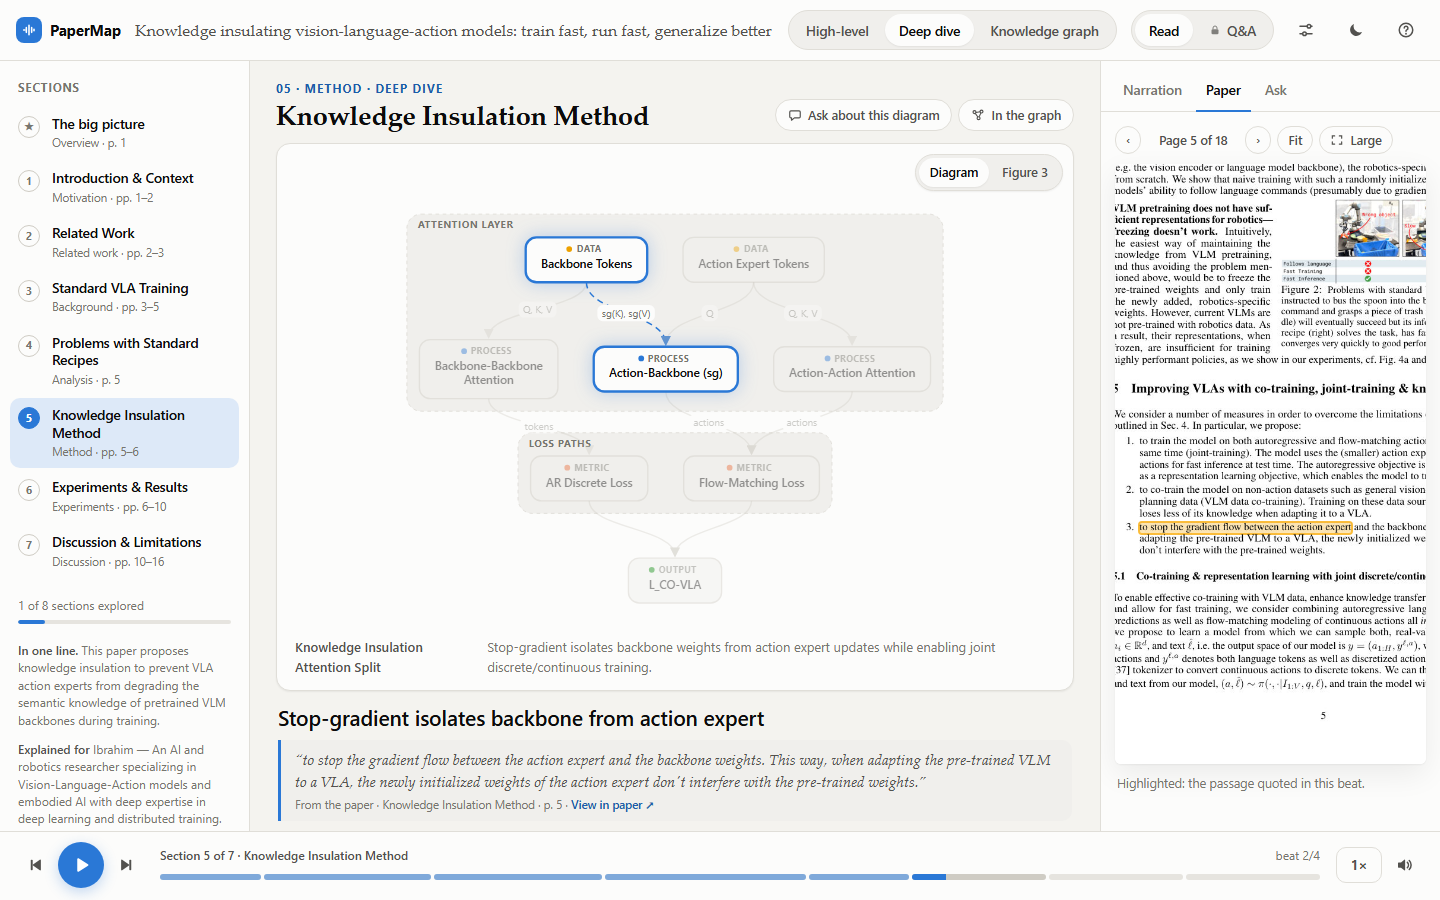
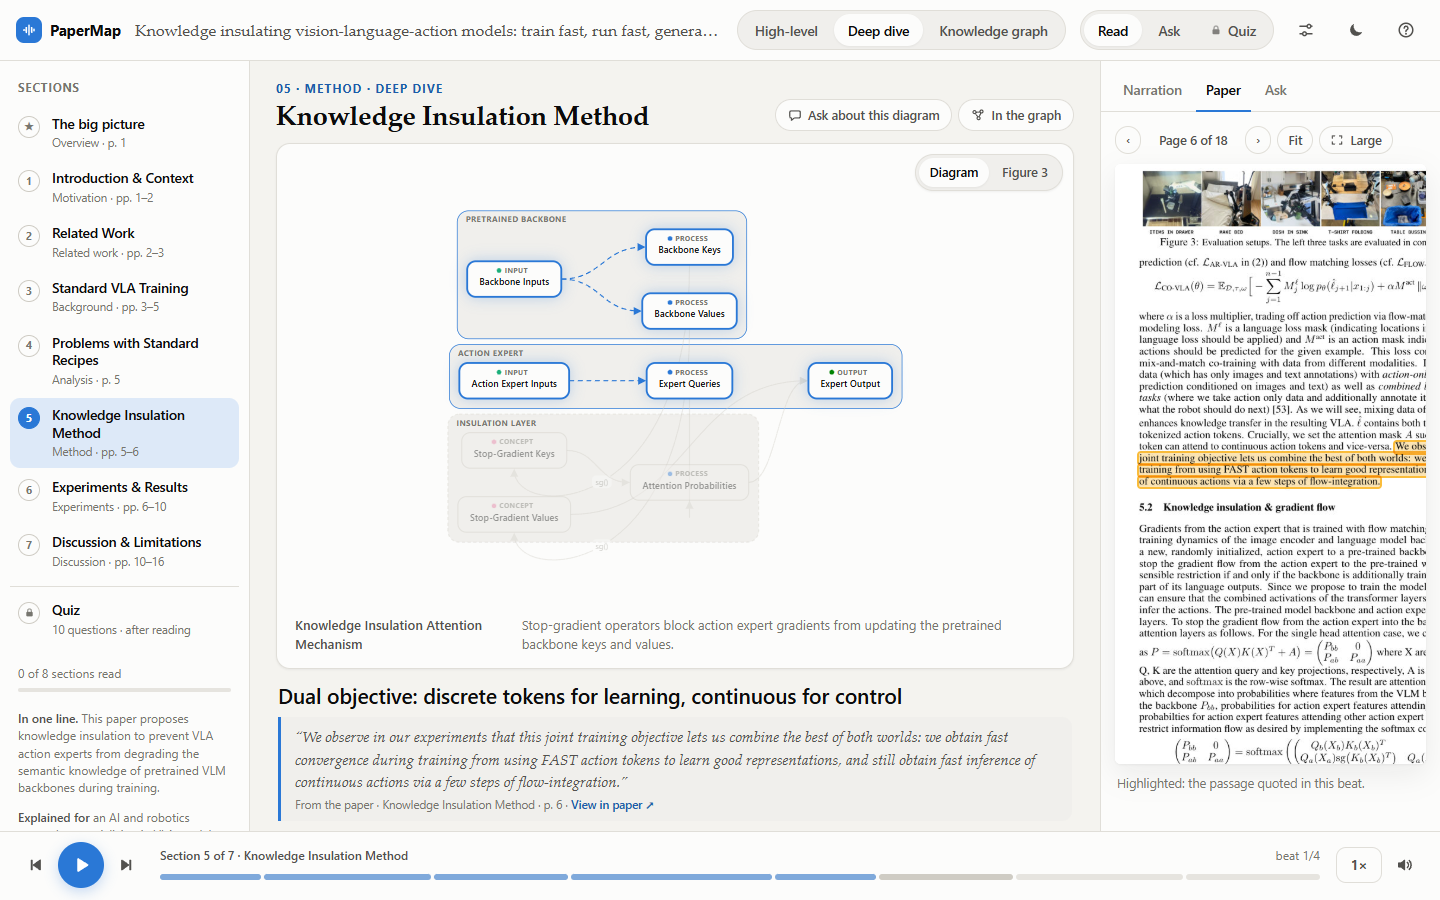
Article: anonymized screenshots, the quiz and the ten-stage pipeline
The deep-dive and graph screenshots showed the reader's name and the old
Read | Q&A toggle; they are retaken from an anonymized copy with the
current UI. The pipeline figure gains the quiz stage, a short paragraph
and screenshot describe the quiz, and the how-to reflects that Ask is
open at any time while the quiz unlocks after reading.

diff --git a/docs/articles/understanding-papers-with-papermap.md b/docs/articles/understanding-papers-with-papermap.md
@@ -12,14 +12,14 @@ PaperMap gives you the walkthrough a colleague who already read the paper would 
 
 ## What it does
 
-You give it a paper (a PDF or an arXiv link) and a short `profile.md` describing the reader. It builds one self-contained web page with three synchronized views: a high-level walkthrough, a deep dive and a knowledge graph. A Paper tab shows the PDF page behind each sentence with the quoted passage highlighted, and `papermap serve` adds Q&A grounded in the paper. It runs with local models (Ollama, vLLM, llama.cpp, LM Studio) or with cloud APIs.
+You give it a paper (a PDF or an arXiv link) and a short `profile.md` describing the reader. It builds one self-contained web page with three synchronized views: a high-level walkthrough, a deep dive and a knowledge graph. A Paper tab shows the PDF page behind each sentence with the quoted passage highlighted. `papermap serve` answers questions from the paper at any time, and a quiz at the end checks what you understood. It runs with local models (Ollama, vLLM, llama.cpp, LM Studio) or with cloud APIs.
 
-![The PaperMap pipeline: parse, understand, profile, explain, review, diagrams, graph, narrate, render](../images/pipeline.png)
+![The PaperMap pipeline: parse, understand, profile, explain, review, diagrams, graph, quiz, narrate, render](../images/pipeline.png)
 
 Two design choices make it a tool for understanding a paper rather than summarizing it:
 
 - **The profile drives the writing.** Concepts the reader already knows are not re-explained, missing ones get a short definition, and analogies come from fields the reader knows.
-- **Grounding runs in code, not in the prompt.** Quotes must appear verbatim in the paper or they are dropped. Numbers in the narration and in charts must appear in the section text, next to the label they are attributed to. Graph entities must be named in the paper. A second model pass fact-checks every section, and Q&A answers must cite sections.
+- **Grounding runs in code, not in the prompt.** Quotes must appear verbatim in the paper or they are dropped. Numbers in the narration and in charts must appear in the section text, next to the label they are attributed to. Graph entities must be named in the paper. A second model pass fact-checks every section, an independent pass re-checks every quiz answer key, and answers to questions must cite sections.
 
 ## Example: the knowledge-insulation paper
 
@@ -39,9 +39,9 @@ The run took 51 minutes: 70 model calls, 188k input and 44k output tokens. Paper
 >
 > *"showing that naively including such experts significantly harms both training speed and knowledge transfer"*
 
-**Deep dive.** 34 beats, about 8 minutes. For the method section it drew the attention split: backbone tokens attend to themselves, the action expert attends to the backbone through stop-gradient keys and values, and the autoregressive token loss and the flow-matching loss meet in the combined loss. While the second beat plays, the stop-gradient node lights up and the Paper tab opens page 5 with the quoted sentence marked.
+**Deep dive.** 34 beats, about 8 minutes. For the method section it drew the pretrained backbone and the action expert, with an insulation layer of stop-gradient keys and values between them. While the first beat plays, the backbone and expert blocks light up and the Paper tab opens page 6 with the quoted sentence marked. On the next beat, the highlight moves to the stop-gradient nodes.
 
-![Deep dive of the method section: the flow diagram highlights the stop-gradient path while the Paper tab shows page 5 with the quote](../images/ki-deep-dive.png)
+![Deep dive of the method section: the diagram highlights what the narration is explaining while the Paper tab shows page 6 with the quoted sentence](../images/ki-deep-dive.png)
 
 **Knowledge graph.** 36 nodes and 52 edges, every one named in the paper. It says in one picture what Related Work says in two pages: knowledge insulation is based on π0, extends the two-stage recipe of π0.5, improves on π0-FAST, outperforms HybridVLA and OpenVLA-OFT, uses PaliGemma, FAST tokens, flow matching and a stop-gradient, and is evaluated on LIBERO, DROID and table bussing.
 
@@ -55,6 +55,10 @@ The run took 51 minutes: 70 model calls, 188k input and 44k output tokens. Paper
 
 Asked *is the method state of the art on all LIBERO subsets?*, it answered no, cited [s6] and quoted the paper's own "worse on LIBERO-10", but the two baseline numbers it gave came from the LIBERO-90 column of Table 1. The citation chip jumps to the section and the table is one click away, so the check takes seconds. That is the division of labor: the model gives the walkthrough, the paper stays the authority.
 
+**Quiz.** Once every section has been read, a quiz opens. It has 10 multiple-choice questions spread over all 8 sections, from what the stop-gradient blocks to the DROID scores. A second pass checked each answer key by answering from the paper alone, with the options shuffled. The results show the score and which sections to revisit. For every miss they show the right answer, why it is right and the sentence from the paper, with buttons that jump to the narration beat or open the highlighted page.
+
+![Quiz results: the score, what to review per section, and a missed question with the correct answer, the explanation and the supporting quote](../images/ki-quiz.png)
+
 ## How to use it
 
 ```bash
@@ -65,11 +69,12 @@ pip install -e ".[all]"        # Python 3.11 or newer
 
 1. **Describe the reader.** `papermap init` writes `papermap.toml` and a `profile.md` template. The profile is free-form Markdown: who is listening, what they know well, what is new to them, what they want from a paper, how deep to go, and the tone.
 2. **Generate.** `papermap https://arxiv.org/abs/2505.23705 --profile profile.md --provider ollama --model qwen2.5:7b`. A 7B model is enough to try the page; a 27B model, or a cloud model with `--provider anthropic`, writes better narration and cleaner diagrams. If a run fails halfway, run the same command again: completed work is cached and it resumes from the last finished model call.
-3. **Open it.** `index.html` opens from disk and works offline. For Q&A, serve the folder, because answering needs a model: `papermap serve papermap-out/<folder>`. Press play; switch between high-level and deep dive at any time; click "View in paper" on a quote to see it on the PDF page.
-4. **Ask.** The Ask tab answers questions about the section, diagram or graph node you are on, and a full Q&A mode unlocks once you finish the paper. Answers carry `[s5]`-style chips that jump to the cited section.
+3. **Open it.** `index.html` opens from disk and works offline. To ask questions, serve the folder, because answering needs a model: `papermap serve papermap-out/<folder>`. Press play; switch between high-level and deep dive at any time; click "View in paper" on a quote to see it on the PDF page.
+4. **Ask.** The Ask tab answers questions about the section, diagram or graph node you are on, and the Ask mode takes any question at any time. Answers carry `[s5]`-style chips that jump to the cited section.
+5. **Take the quiz.** It unlocks once you have read every section. Each question you miss links to the part of the narration and the passage in the paper that answer it.
 
 `--style duo` turns the narration into a host-and-expert conversation, `--tts` adds real voices (Edge, or any OpenAI-compatible speech server), and every stage writes its output to `debug/<stage>.json`. Configuration, providers and debugging are in [GUIDE.md](../GUIDE.md); the internals are in [ARCHITECTURE.md](../ARCHITECTURE.md).
 
 ## Limits and what's next
 
-PaperMap does not replace reading the paper; it changes the order. The one-sentence idea, the mechanism drawn, the evidence in a chart and the sentence behind each claim come before the PDF. A model can still misread a correct passage, and the checks catch quotes and numbers, not reasoning. Scanned PDFs need OCR first. Q&A needs a running model and is not streamed yet. Next on the list: streaming Q&A, HTML papers, and a quiz stage that checks what you actually retained.
+PaperMap does not replace reading the paper; it changes the order. The one-sentence idea, the mechanism drawn, the evidence in a chart and the sentence behind each claim come before the PDF. A model can still misread a correct passage, and the checks catch quotes and numbers, not reasoning. Scanned PDFs need OCR first. Q&A needs a running model and is not streamed yet. Next on the list: streaming answers and HTML papers.
